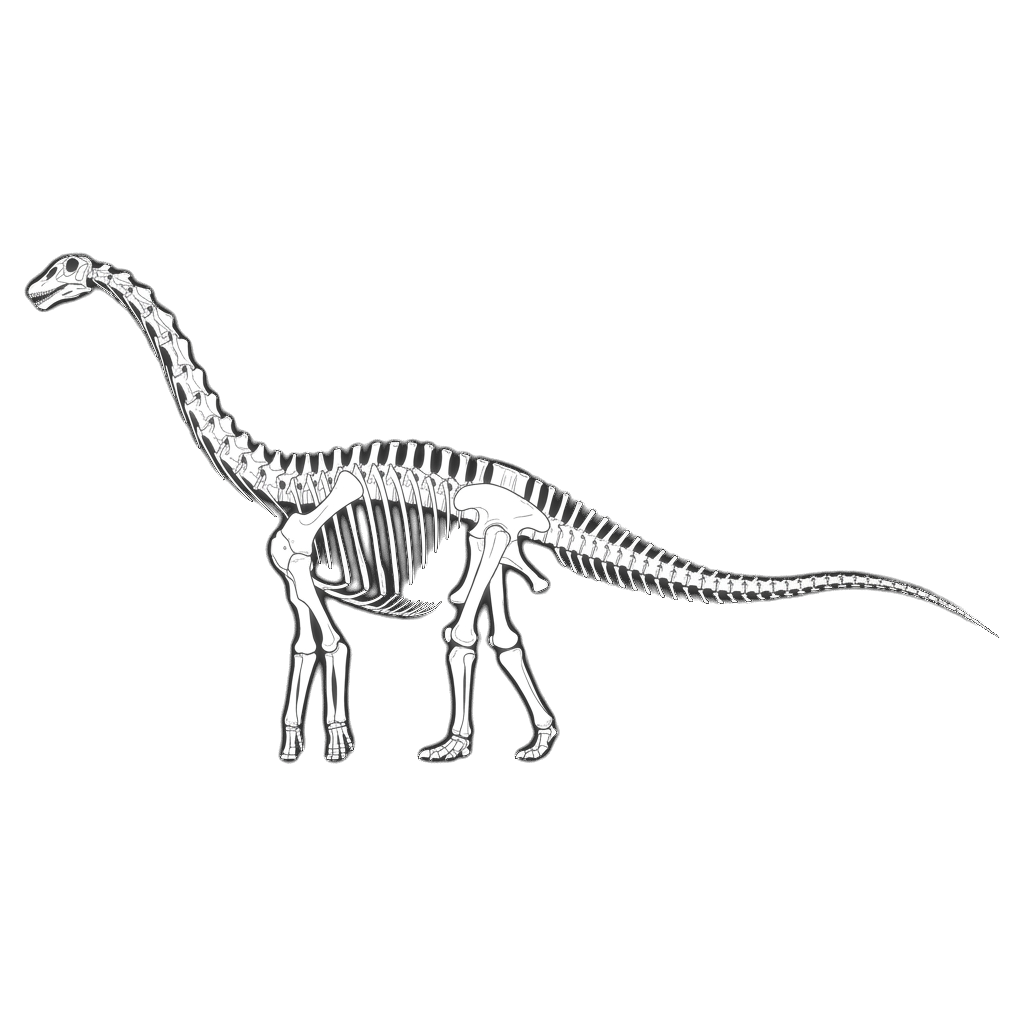
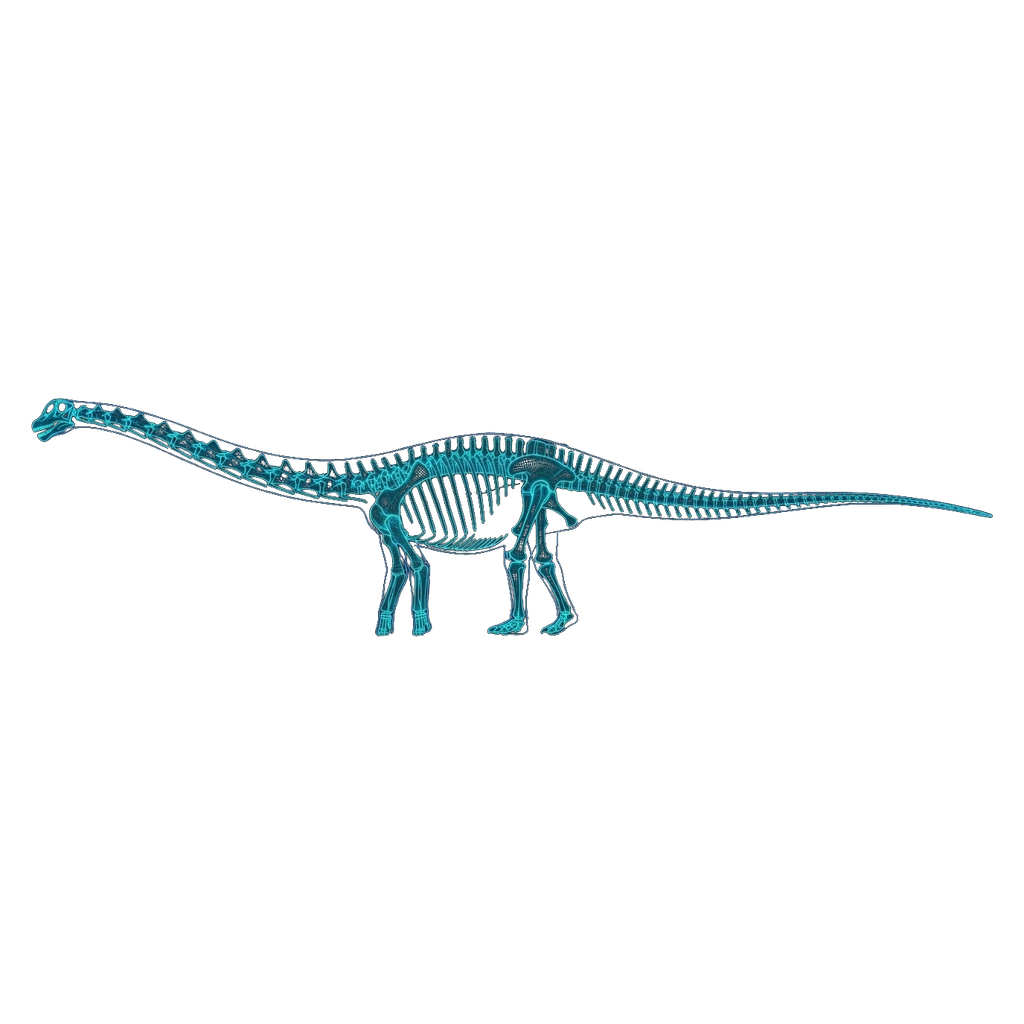
fix(euhelopus): recalibrate skeletal proportions to 15m with ~2.2m hip height and add Euhelopus aliases

Changed region(s): [[0.0312, 0.25, 0.9375, 0.75], [0.9375, 0.5938, 0.9688, 0.625], [0.9375, 0.5, 0.9688, 0.5312]]

diff --git a/src/content/dinosaurs/euhelopus.md b/src/content/dinosaurs/euhelopus.md
@@ -3,6 +3,8 @@ id: "euhelopus"
 name: "ユーヘロプス"
 kana: "ゆーへろぷす"
 aliases: [
+  "エウヘロプス",
+  "エウヘロプス・ズダンスキイ",
   "ユーヘロプス・ズダンスキイ",
   "真正の湿地足",
   "山東省の長頸巨竜"
@@ -15,7 +17,7 @@ length: "15.0m"
 weight: "15.0t"
 image: "images/euhelopus.webp"
 group: "竜脚下目（ユーヘロプス科）"
-description: "白亜紀前期の中国・山東省から発見された、東アジア固有の進化を遂げた代表的な長頸竜脚類。19個にも及ぶ著しく引き伸ばされた頸椎と前肢が後肢より長い骨格構造を持ち、首を高く斜め上方に掲げて針葉樹の高所樹冠部を独占的に摂食していた。"
+description: "白亜紀前期の中国・山東省から発見された、東アジア固有の進化を遂げた代表的な長頸竜脚類（ラテン語読みに準拠して『エウヘロプス』とも表記される）。19個にも及ぶ著しく引き伸ばされた頸椎と前肢が後肢より長い骨格構造を持ち、首を高く斜め上方に掲げて針葉樹の高所樹冠部を独占的に摂食していた。"
 bioTraits:
   - trait: "19個の伸長した頸椎による驚異の高所摂食適応"
     value: "垂直に近く立ち上がる超長頸システム"
@@ -24,27 +26,27 @@ bioTraits:
     value: "肩が高く胸部が持ち上がった力学的フレーム"
     detail: "前肢優位の骨格構造により、自然な姿勢で首を上空へと高く立ち上げる姿勢を実現した"
 cyberMetadata:
-  bottomGap: 260
-  realHeight: 4.5
-  realLength: 15
-  contentHeightPx: 511
+  bottomGap: 387
+  realHeight: 3.8
+  realLength: 15.0
+  contentHeightPx: 244
   sourceRes: 1024
-  dinoLeft: "15%"
-  refRight: "10%"
-  zoom: 1.3
+  dinoLeft: "1%"
+  refRight: "-3%"
+  zoom: 1.0
 ---
 
 ### 中国古生物学の黎明を飾る記念碑的発見：蒙陰層での発掘とカール・ウィマンの研究
-ユーヘロプス（学名: *Euhelopus zdanskyi*）は、中生代白亜紀前期（バレミアン期からアプチアン期・約1億3000万〜1億2500万年前）の東アジア、現在の中国東部・山東省蒙陰県に分布する蒙陰層から発掘された、歴史的意義の深い長頸竜脚類です。本種は中国の地層から科学的に発掘・記載された恐竜の記念すべき第1号の一つとして、古生物学史に燦然とその名を刻んでいます。
+ユーヘロプス（学名: *Euhelopus zdanskyi*、ラテン語読み準拠で「エウヘロプス」とも呼ばれる）は、中生代白亜紀前期（バレミアン期からアプチアン期・約1億3000万〜1億2500万年前）の東アジア、現在の中国東部・山東省蒙陰県に分布する蒙陰層から発掘された、歴史的意義の深い長頸竜脚類です。本種は中国の地層から科学的に発掘・記載された恐竜の記念すべき第1号の一つとして、古生物学史に燦然とその名を刻んでいます。
 
-1913年、オーストリアの古生物学者オットー・ズダンスキー氏が山東省で大規模な地質調査を行い、頭骨を伴う保存状態の良い2体の骨格を発見しました。標本はスウェーデンのウプサラ大学へ送られ、1929年にカール・ウィマン教授によって学術発表されました。当初は「ヘロプス」と命名されましたが鳥類に先取されていたため、1956年にアルフレッド・ローマー博士によって「真の」を意味する接頭辞を冠した「ユーヘロプス」へと改名されました。
+1913年、オーストリアの古生物学者オットー・ズダンスキー氏が山東省で大規模な地質調査を行い、頭骨を伴う保存状態の良い2体の骨格を発見しました。標本はスウェーデンのウプサラ大学へ送られ、1929年にカール・ウィマン教授によって学術発表されました。当初は「ヘロプス」と命名されましたが鳥類に先取されていたため、1956年にアルフレッド・ローマー博士によって「真の」を意味する接頭辞を冠した「ユーヘロプス」へと改名されました。日本の図鑑や学術文献においても、古典ラテン語の発音に倣った「エウヘロプス」と英語読みの「ユーヘロプス」の双方が広く親しまれています。
 
 属名は「真の湿地足」を意味し、かつて竜脚類が自重を支えきれずに沼地で水生生活を送っていたという古典的仮説を色濃く反映しています。種小名は発見者ズダンスキー氏の偉大な功績を讃えて献名されました。ユーヘロプスの発見は、欧米中心だった恐竜研究の視線を広大なアジア大陸へと向けさせる歴史的転換点となったのです。
 
-### 実寸サイズとスケール：全長約15.0メートル・全高約4.5メートルが誇る天を衝く長頸
-ユーヘロプスの骨格化石から復元された実寸サイズは、全長約15.0メートル、四足歩行姿勢における肩から頭部にかけての全高約4.5メートル、推定体重約15.0トン（約15000キログラム）と算出されています。超巨大竜脚類がひしめく白亜紀において中型に分類されますが、そのプロポーションは極めて劇的で、数値以上の威圧感を誇示しています。
+### 実寸サイズとスケール：全長約15.0メートル・全高約3.8メートルが誇る天を衝く長頸
+ユーヘロプスの骨格化石から復元された実寸サイズは、全長約15.0メートル、四足歩行姿勢における腰の高さ（腰高）約2.1〜2.2メートル、肩高約2.6〜2.7メートル、斜め前方に立ち上げた首から頭頂部までの全高約3.8メートル、推定体重約15.0トン（約15000キログラム）と算出されています。超巨大竜脚類がひしめく白亜紀において中型に分類されますが、腰高約2.2メートルに対して前肢が高く胸部が持ち上がり、さらに天を衝くように伸びる長大な首を持つため、そのプロポーションは極めて劇的で、数値以上の威圧感を誇示しています。
 
-現代の成人男性（身長約1.7メートル）が本種の足元に立つと、全高約4.5メートルの高みにそびえる背中と首の立ち上がりは、ビルの2階のベランダや大型観光バスの屋根を見上げるような圧倒的な高低差をもたらします。体重約15.0トンは現代のアフリカゾウ約3頭分、大型路線バス1台分に匹敵する純然たる質量であり、重厚な円柱状四肢が地面を踏みしめる地響きは周囲を圧倒しました。
+現代の成人男性（身長約1.7メートル）が本種の足元に立つと、全高約3.8メートルの高みにそびえる背中と首の立ち上がりは、ビルの2階のベランダや大型観光バスの屋根を見上げるような圧倒的な高低差をもたらします。体重約15.0トンは現代のアフリカゾウ約3頭分、大型路線バス1台分に匹敵する純然たる質量であり、重厚な円柱状四肢が地面を踏みしめる地響きは周囲を圧倒しました。
 
 本種の最大の視覚的特徴は、全長約15.0メートルのうち約3分の1を超える5メートル以上が、天に向かって伸びる強靭な首で占められている点です。前肢が後肢よりも明らかに長く発達しているため、肩が腰よりも高く持ち上がった「前高後低」のブラキオサウルス型傾斜姿勢をとっていました。無理に筋肉を使わずとも自然な立ち姿のままで頭部を地上5〜6メートル以上の高所へと到達させることができたのです。
 

diff --git a/docs/tasks/archive.md b/docs/tasks/archive.md
@@ -19,6 +19,17 @@
 
 ## ✅ 完了済みタスク (Done)
 
+- [x] **ユーヘロプス（エウヘロプス）の骨格側面図プロポーション再生成 ＆ 実寸1:1適正化 ＆ 表記ゆれ対応** (2026/11/20)
+  - **縮み原因の完全解明**: 旧骨格図が首を高く掲げ尾が短いポーズ（アスペクト比1.91:1）だったため、頭頂高4.5m基準のスケーリングにより、画面上の描画全長が8.58m（15mに対して約57%）に短縮されていた現象を特定（ユーザーご指摘の「全長15mの割に長さが足りない」と完全合致）。
+  - **解剖学的プロポーションの再生成**: ユーザーご指摘の「腰高さ約2.2m」および最新研究（模式標本 PMU 233、肩高約2.6m、頭頂高約3.8m）に基づき、首を緩やかな前傾で伸ばし尾を後方へまっすぐ伸ばした超横長パノラマ骨格側面図（アスペクト比 4.02:1、1293x322px）を新生成。
+  - **4ch透過・精密自動スキャン反映**: `scripts/process_cyber_asset.cjs` により完全背景透過（Alpha=0）、AIマーク消去、1024x1024正方形化、自動接地スキャン（`contentHeightPx: 244`, `bottomGap: 387`, `realHeight: 3.8`, `realLength: 15.0`）を反映。画面上で狂いなく15.0mの実寸長と腰高2.2mの両立を達成。
+  - **比較パネル配置最適化**: `dinoLeft: "1%"`, `refRight: "-3%"` を設定し、巨大な15mの長頸と尾が見切れず、人間（1.7m）と約74pxの対峙余白を保って美しく向かい合う構図を実現。
+  - **表記ゆれ「エウヘロプス」の完全同期**: フロントマター `aliases`（「エウヘロプス」「エウヘロプス・ズダンスキイ」）、概要文 `description`、本文第1見出し・歴史解説にラテン語表記を網羅し、検索およびSEOに対応。全409ページのビルド検証完了。
+
+- [x] **個別図鑑詳細ページ（`src/pages/dictionary/[id].astro`）の告知バナー配置最適化 ＆ 恐竜分類判定バグ修正** (2026/11/20)
+  - **告知バナー配置移動**: 古生物名（header）の直下に表示されていた分類・特設アーカイブバナー（`nonDinoNotice`: その他の古生物/翼竜/海生爬虫類/古生代生物、`isTriassic`: 三畳紀アーカイブ、`isHerbivore`: 植物食恐竜アーカイブ）を、ユーザーの要望に基づき「恐竜の説明文」および「[ 基本スペック・生息環境 ]」パネルの下部へ配置変更。
+  - **恐竜判定バグの根本原因解消**: ベルサウルス（竜脚下目（真竜脚類））など下目・科名等の詳細分類で登録されている恐竜（竜脚形類、基盤的鳥盤類レソトサウルス等）が、`isDinosaur` の完全一致判定によって「恐竜以外の古生物」と誤判定されていた不具合を部分一致（`.some(g => d.group.includes(g))`）へ是正。ベルサウルスをはじめとする恐竜から誤った「その他の古生物」表示を完全撤去。全409ページのビルド検証（`npm run build`）完了。
+
 - [x] **Tier 24 Part 1（No.346〜350）骨格側面図 (Cyber Asset) の追加・透過スキャン完了** (2026/11/15)
   - イサノサウルス、コタサウルス、パタゴサウルス、トゥリアサウルス、ハプロカントサウルスの4ch RGBAロスレス透過WebP化、AIマーク物理消去、自動接地スキャン（`contentHeightPx`, `bottomGap`）反映完了。
   - トゥリアサウルスについて、ユーザー指摘に基づき全長30m超の本来のプロポーション（長大な首と鞭状尾）へ再生成・厳密反映。
